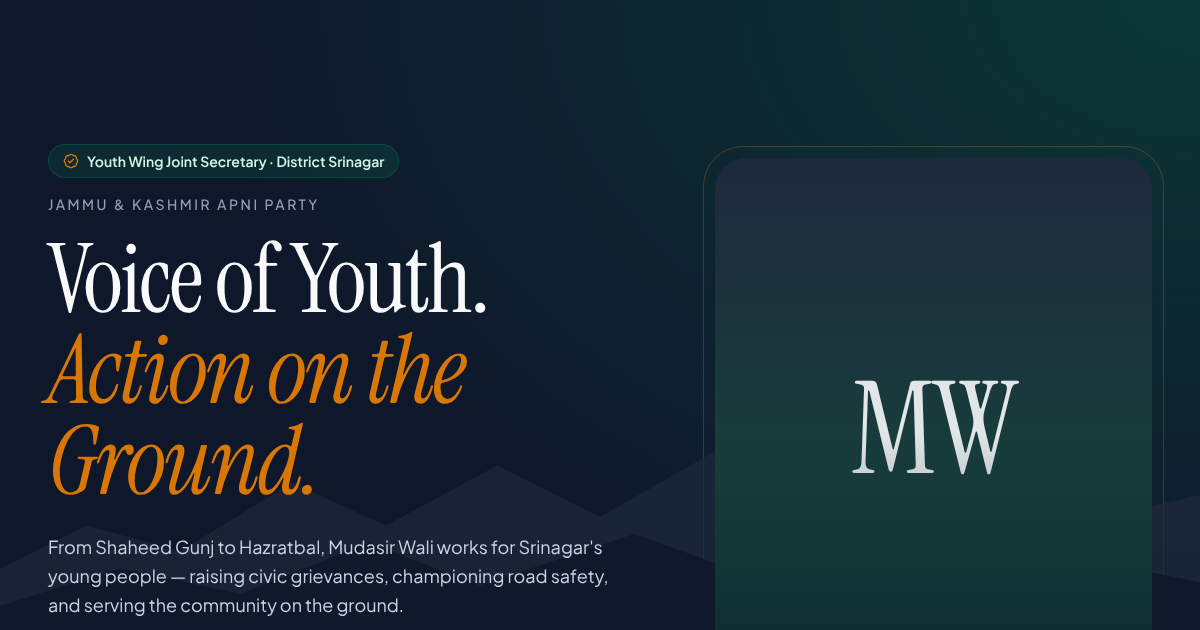
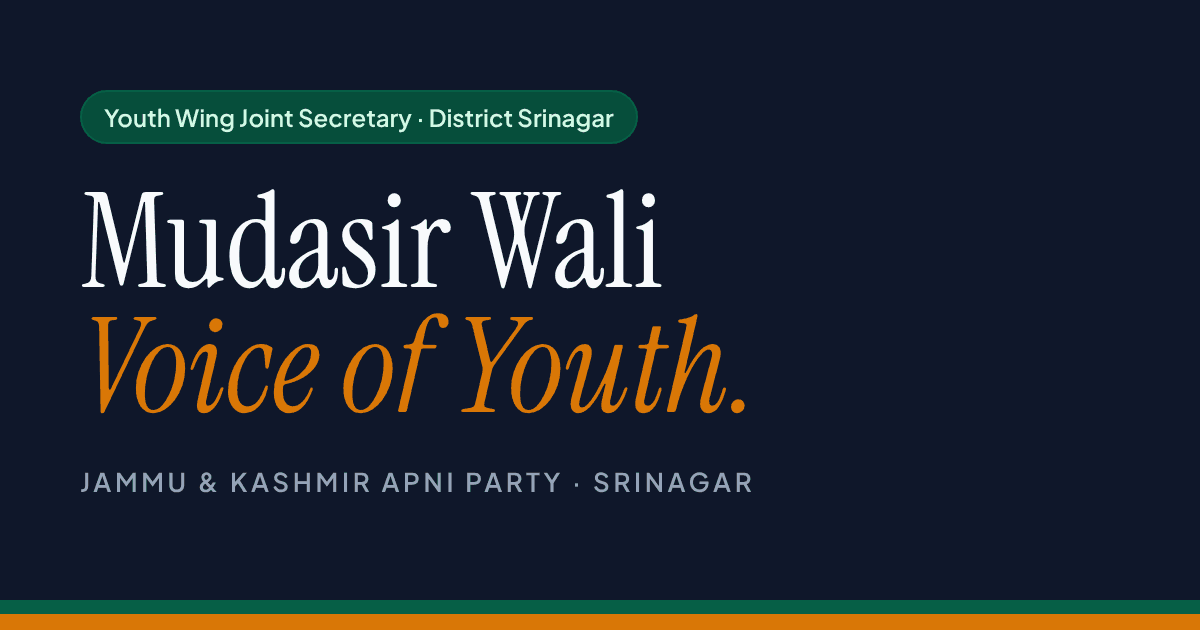
Point site URL at mudasir-wali.vercel.app; lighter OG share card
Claude-Session: https://claude.ai/code/session_01TrgbCpq2MKgHR2873eZrCH

diff --git a/src/config/site.ts b/src/config/site.ts
@@ -1,7 +1,7 @@
 /** Central public configuration. Edit here, not in components. */
 export const SITE = {
   name: "Mudasir Wali",
-  url: (import.meta.env.VITE_SITE_URL as string | undefined) ?? "https://mudasirwali.in",
+  url: (import.meta.env.VITE_SITE_URL as string | undefined) ?? "https://mudasir-wali.vercel.app",
   role: "Youth Wing Joint Secretary, District Srinagar",
   party: "Jammu & Kashmir Apni Party",
   partyShort: "J&K Apni Party",
